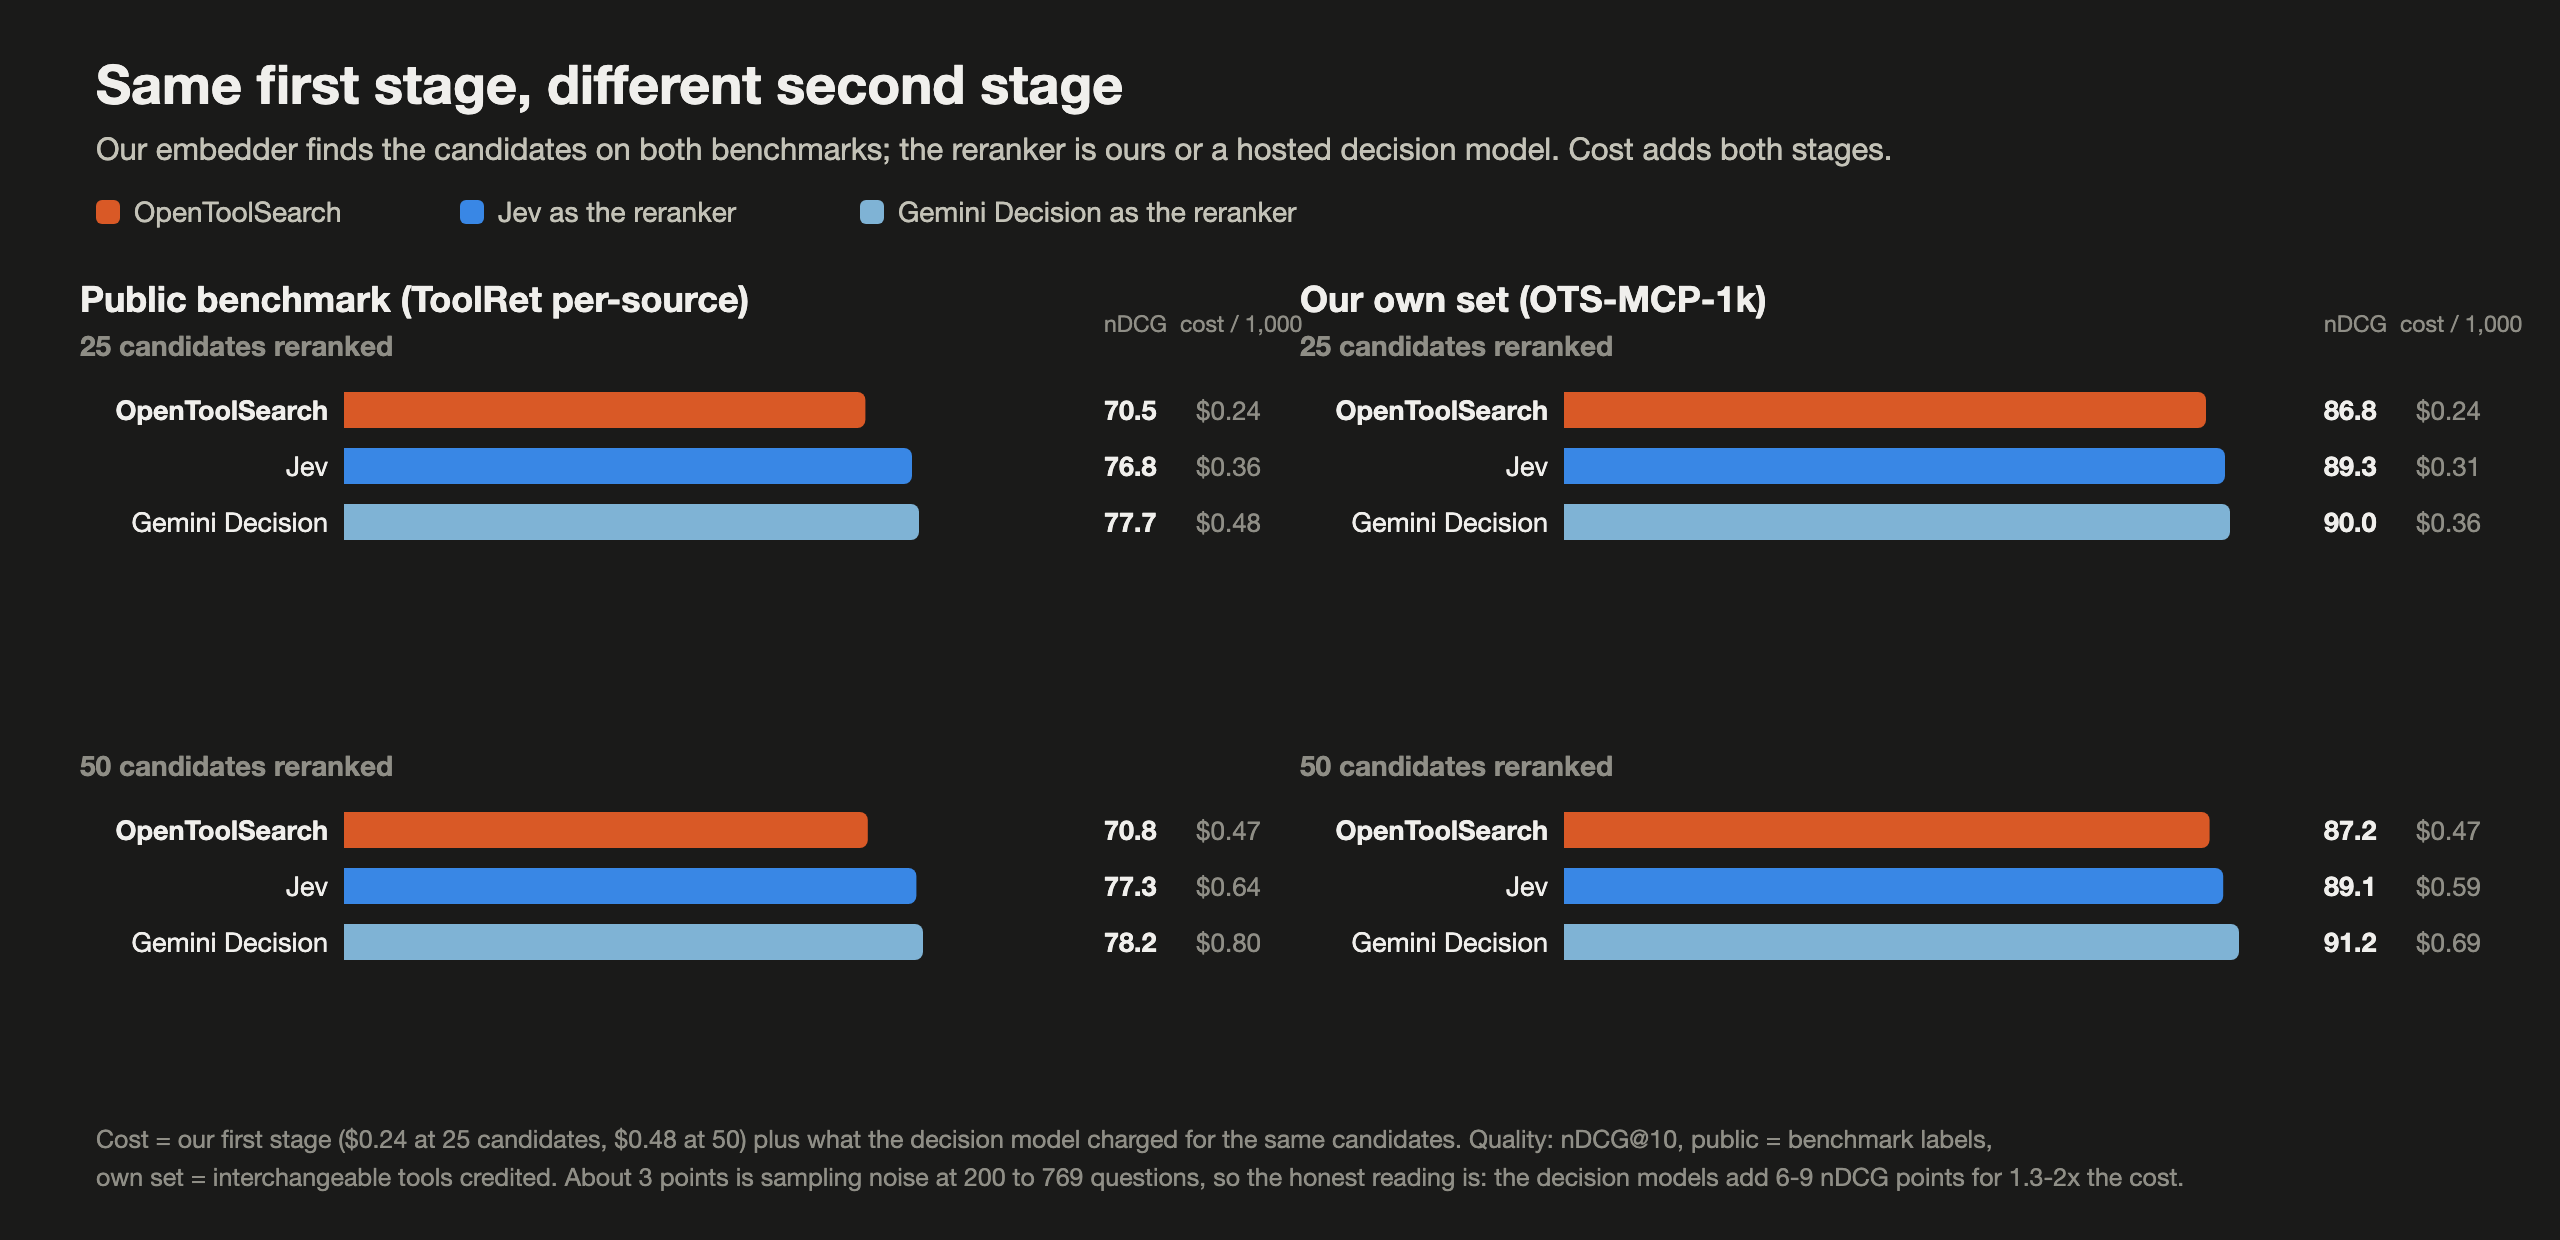
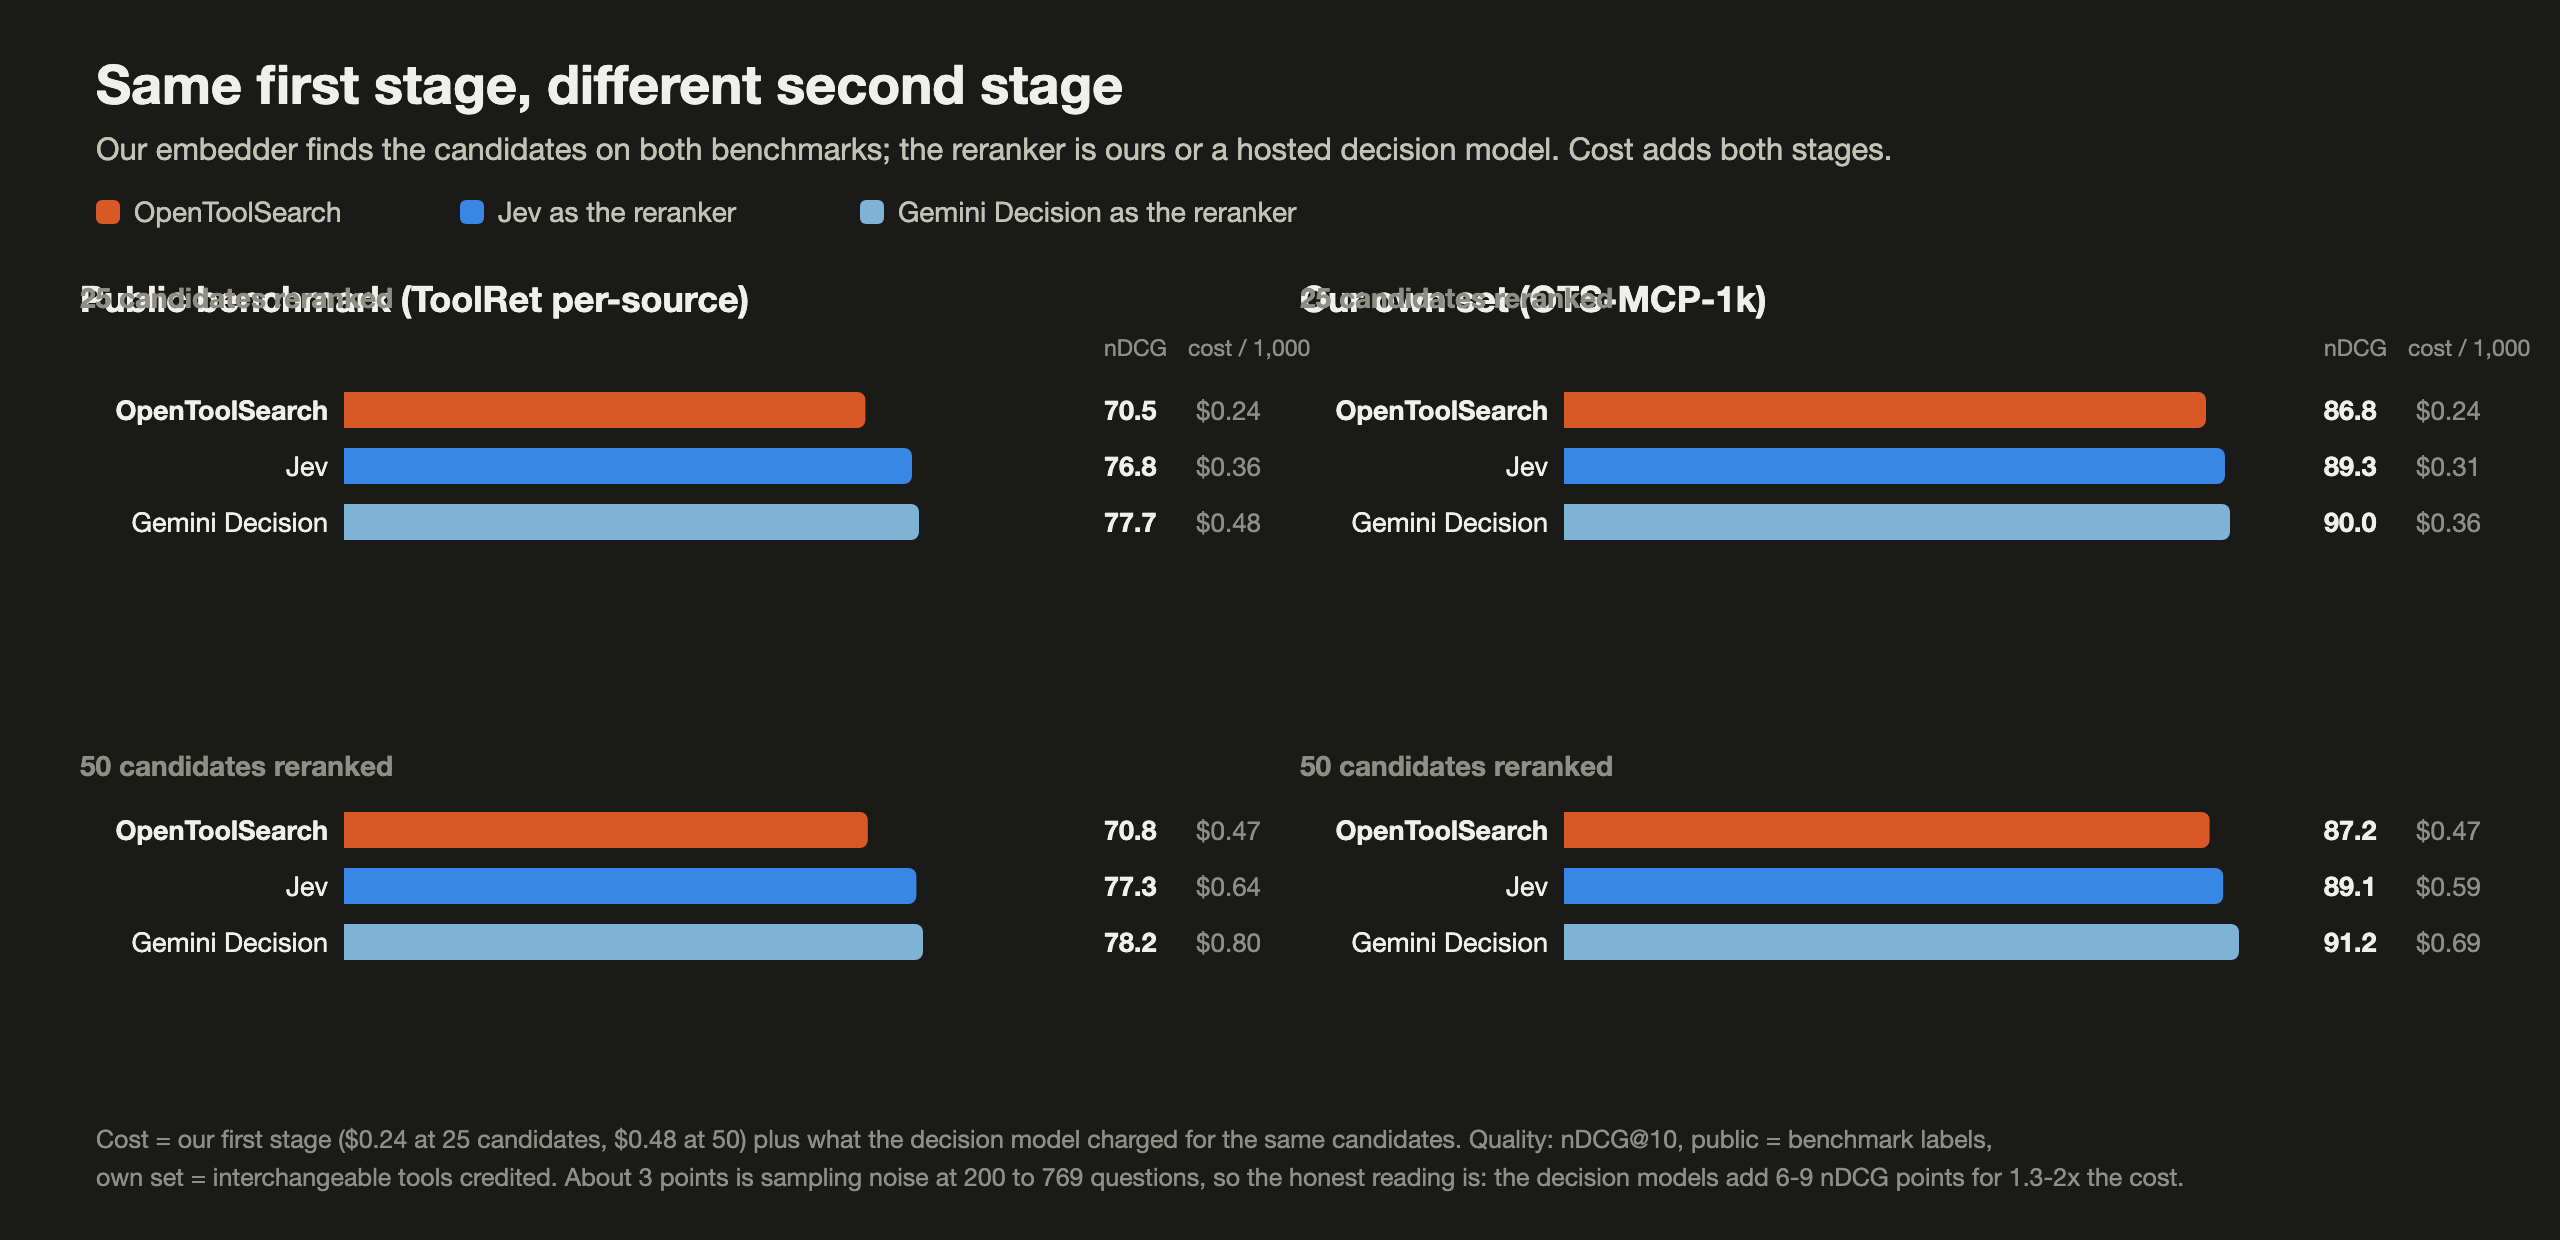
Figure: header placement

Changed region(s): [[0.4375, 0.2145, 0.625, 0.3065], [0.0312, 0.2145, 0.1562, 0.3065], [0.9062, 0.2452, 1.0, 0.3065]]

diff --git a/scripts/make_fair_figure.py b/scripts/make_fair_figure.py
@@ -21,7 +21,7 @@ for key, title, x0 in panels:
     y0, rowh, w = 196, 92, 370
     for j, depth in enumerate(("25", "50")):
         yy = y0 + j * 210
-        body += t(x0, yy - 18, f"{depth} candidates reranked", 14, MUTED, weight=600)
+        body += t(x0, yy - (42 if depth == "25" else 18), f"{depth} candidates reranked", 14, MUTED, weight=600)
         rows = [("OpenToolSearch", "ots", m[f"ots_{depth}"], 0.24 if depth == "25" else 0.475),
                 ("Jev", "jev", m[f"jev_{depth}"], (m[f"dec_cost_{depth}"]["jev"] + (0.24 if depth == "25" else 0.475))),
                 ("Gemini Decision", "gdec", m[f"gdec_{depth}"], (m[f"dec_cost_{depth}"]["gdec"] + (0.24 if depth == "25" else 0.475)))]
@@ -32,7 +32,7 @@ for key, title, x0 in panels:
             body += f'<path d="M{x0+132},{y} h{max(0,hw-4):.1f} a4,4 0 0 1 4,4 v10 a4,4 0 0 1 -4,4 h-{max(0,hw-4):.1f} z" fill="{COL[g]}"/>'
             body += t(x0 + 124, y + 14, name, 13.5, INK, "end", 700 if g == "ots" else 400)
             body += t(x0 + 132 + w + 10, y + 14, f"{q:.1f}", 13.5, INK, weight=600) + t(x0 + 132 + w + 56, y + 14, f"${cost:.2f}", 13, MUTED)
-    body += t(x0 + 132 + w + 10, y0 - 30, "nDCG", 11.5, MUTED) + t(x0 + 132 + w + 48, y0 - 30, "cost / 1,000", 11.5, MUTED)
+    body += t(x0 + 132 + w + 10, y0 - 18, "nDCG", 11.5, MUTED) + t(x0 + 132 + w + 52, y0 - 18, "cost / 1,000", 11.5, MUTED)
 body += t(48, H - 46, "Cost = our first stage ($0.24 at 25 candidates, $0.48 at 50) plus what the decision model charged for the same candidates. Quality: nDCG@10, public = benchmark labels,", 12.5, MUTED)
 body += t(48, H - 27, "own set = interchangeable tools credited. About 3 points is sampling noise at 200 to 769 questions, so the honest reading is: the decision models add 6-9 nDCG points for 1.3-2x the cost.", 12.5, MUTED)
 svg = f'<svg xmlns="http://www.w3.org/2000/svg" width="{W}" height="{H}" viewBox="0 0 {W} {H}" font-family="{FONT}"><rect width="{W}" height="{H}" fill="{BG}"/>{body}</svg>'

diff --git a/hf/opentoolsearch-rerank-0.6b/LEDGER.md b/hf/opentoolsearch-rerank-0.6b/LEDGER.md
@@ -259,3 +259,23 @@ Chosen: **depth 25, fusion 0.5** - the public benchmark's best value at that dep
 own set loses 0.7 (87.43 -> 86.77), and the throughput doubles. Depth 25 with fusion 0.5 is now
 the library default (`ToolIndex(rerank_top=25, fuse=0.5)`); the evaluation scripts keep the
 benchmark protocols (depth 50 / top 100) they were run with. `results/default_config.json`.
+
+# Fair comparison, same first stage (2026-11-21)
+
+Our embedder finds the candidates; the second stage is our reranker, Jev, or Gemini Decision,
+at 25 and 50 candidates. Costs add the first stage ($0.24 / $0.475) to what the decision
+model billed for those candidates.
+
+| Candidates | Second stage | Public | Own set | Cost / 1,000 |
+|---|---|---|---|---|
+| 25 | OpenToolSearch | 70.45 | 86.77 | 0.24 |
+| 25 | Jev | 76.75 | 89.33 | 0.36 |
+| 25 | Gemini Decision | 77.69 | 90.00 | 0.48 |
+| 50 | OpenToolSearch | 70.78 | 87.23 | 0.475 |
+| 50 | Jev | 77.35 | 89.08 | 0.64 |
+| 50 | Gemini Decision | 78.25 | 91.21 | 0.80 |
+
+Raw runs: `benchmarks/*/runs/k25-*.jsonl` (25 candidates) and the existing 50-candidate files
+(`jev-choice`, `gdec-choice`, and `gemini-decision-choice` on the own set). The decision
+models' "single choice" probability is rounded to two decimals, so ties keep the given order.
+The fair figure: `results/fair_comparison.json`, `scripts/make_fair_figure.py`.

diff --git a/results/LEDGER.md b/results/LEDGER.md
@@ -259,3 +259,23 @@ Chosen: **depth 25, fusion 0.5** - the public benchmark's best value at that dep
 own set loses 0.7 (87.43 -> 86.77), and the throughput doubles. Depth 25 with fusion 0.5 is now
 the library default (`ToolIndex(rerank_top=25, fuse=0.5)`); the evaluation scripts keep the
 benchmark protocols (depth 50 / top 100) they were run with. `results/default_config.json`.
+
+# Fair comparison, same first stage (2026-11-21)
+
+Our embedder finds the candidates; the second stage is our reranker, Jev, or Gemini Decision,
+at 25 and 50 candidates. Costs add the first stage ($0.24 / $0.475) to what the decision
+model billed for those candidates.
+
+| Candidates | Second stage | Public | Own set | Cost / 1,000 |
+|---|---|---|---|---|
+| 25 | OpenToolSearch | 70.45 | 86.77 | 0.24 |
+| 25 | Jev | 76.75 | 89.33 | 0.36 |
+| 25 | Gemini Decision | 77.69 | 90.00 | 0.48 |
+| 50 | OpenToolSearch | 70.78 | 87.23 | 0.475 |
+| 50 | Jev | 77.35 | 89.08 | 0.64 |
+| 50 | Gemini Decision | 78.25 | 91.21 | 0.80 |
+
+Raw runs: `benchmarks/*/runs/k25-*.jsonl` (25 candidates) and the existing 50-candidate files
+(`jev-choice`, `gdec-choice`, and `gemini-decision-choice` on the own set). The decision
+models' "single choice" probability is rounded to two decimals, so ties keep the given order.
+The fair figure: `results/fair_comparison.json`, `scripts/make_fair_figure.py`.

diff --git a/hf/opentoolsearch-rerank-0.6b/README.md b/hf/opentoolsearch-rerank-0.6b/README.md
@@ -88,6 +88,25 @@ Per category at top 100: web 52.01, code 61.09, customized 62.01.
   to real traffic.
 - Many subsets have 11 to 50 questions. Differences under about half a point are noise.
 
+### Same first stage, fair fight
+
+![Same first stage, different second stage](https://raw.githubusercontent.com/ai3inc/opentoolsearch/main/assets/fair.png)
+
+Jev and Gemini Decision cannot search a library themselves; here both sides get the same
+candidates from our embedder, and their cost is added to the search cost:
+
+| Candidates | Second stage (same first stage underneath) | Public nDCG@10 | Own set nDCG@10 | Cost / 1,000 |
+|---|---|---|---|---|
+| 25 | **OpenToolSearch reranker** | 70.5 | 86.8 | **$0.24** |
+| 25 | Jev | 76.8 | 89.3 | $0.36 |
+| 25 | Gemini Decision | 77.7 | 90.0 | $0.48 |
+| 50 | **OpenToolSearch reranker** | 70.8 | 87.2 | **$0.48** |
+| 50 | Jev | 77.3 | 89.1 | $0.64 |
+| 50 | Gemini Decision | 78.2 | 91.2 | $0.80 |
+
+Only ours is the whole pipeline. Swapping the reranker for a hosted decision model costs 1.5 to
+1.7 times more for 6 to 9 nDCG points.
+
 ### One GPU, fifteen thousand searches an hour - or seventy-five thousand
 
 ![How fast can one GPU search](https://raw.githubusercontent.com/ai3inc/opentoolsearch/main/assets/scale.png)
